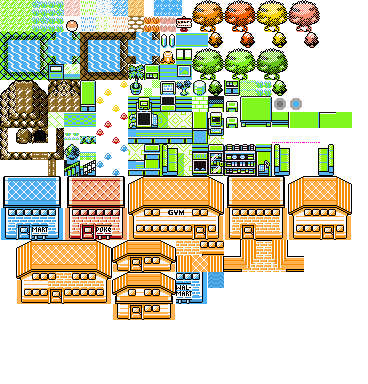
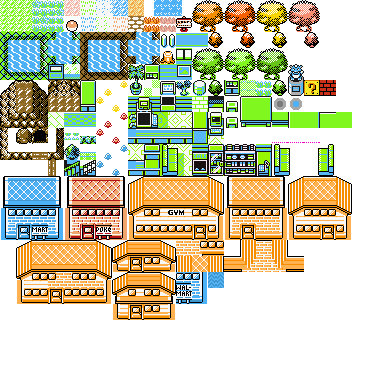
added gym01

Changed region(s): [[0.7772, 0.1562, 0.9266, 0.25]]

diff --git a/MapEditor/main.cpp b/MapEditor/main.cpp
@@ -5,10 +5,10 @@ int main()
 {
 	if (!MapMaker::mainFont.loadFromFile("Carlito-Regular.ttf"))
 		throw;
-	MapMaker makeMe("pokeTiles2.png", sf::Vector2u(16, 16), 31, 28);
+	MapMaker makeMe("pokeTiles2.png", sf::Vector2u(16, 16), 12, 11);
 	makeMe.setBlankTile(551);
 
-	std::string fileName{ "route02.dat" };
+	std::string fileName{ "gym01.dat" };
 
 	makeMe.setMapFileName(fileName);
 	makeMe.load(fileName);
